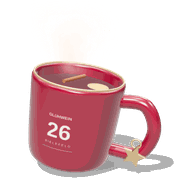
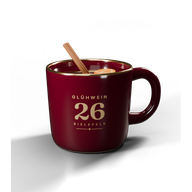
Klassik-Tasse in Blender vorgerendert, Zuckerstange ruhiger
Die Klassik-Tasse ist jetzt in Blender (Cycles) modelliert und als Drehung
mit 36 Bildern gerendert. Three.js zeichnet für sie nur noch den Dampf.
Zuckerstange: ruhigerer Wirbel, weniger Glitzer, keine Streifen auf jeder
Karte, keine Sticker-26, kleinere Radien. SW-Cache v10.

Claude-Session: https://claude.ai/code/session_01HZjAe5qzSWpL2sgn6uB89d

diff --git a/components/WinterCup.tsx b/components/WinterCup.tsx
@@ -25,10 +25,17 @@ const stripes = (a: string, b: string, n: number) => canvasTexture(256, 256, c =
 });
 /** Punkt auf der Tassenwand: Winkel a (0 = vorne), Höhe y, kleiner Abstand nach außen. */
 const onWall = (a: number, y: number, r = .8) => new THREE.Vector3(Math.sin(a) * r, y, Math.cos(a) * r);
+/** Tassen, die in Blender (Cycles) als Drehung vorgerendert sind: Anzahl Bilder pro Umdrehung unter /tassen3d/<variante>/NN.webp.
+ *  Three.js zeichnet für sie nur noch den Dampf; Kamera und Maßstab entsprechen der Blender-Szene. */
+const PRERENDERED: Partial<Record<CupVariant, number>> = { classic: 36 };
+/** etwas kleiner zeigen, damit Zimtstange und Henkel nicht in den Titel ragen (Bild und Dampf-Kamera gleich skaliert) */
+const PHOTO_SCALE = .88;
+const frameSrc = (variant: CupVariant, i: number) => asset(`/tassen3d/${variant}/${String(i).padStart(2, '0')}.webp`);
 
 export default function WinterCup({ variant = 'classic', light = false }: { variant?: CupVariant; light?: boolean }) {
-  const host = useRef<HTMLDivElement>(null), turn = useRef<(() => void) | null>(null);
+  const host = useRef<HTMLDivElement>(null), turn = useRef<(() => void) | null>(null), photo = useRef<HTMLImageElement>(null);
   const [available, setAvailable] = useState(false);
+  const frames = PRERENDERED[variant] ?? 0;
   useEffect(() => {
     if (!host.current) return;
     let renderer: THREE.WebGLRenderer; let raf = 0, disposed = false;
@@ -42,12 +49,17 @@ export default function WinterCup({ variant = 'classic', light = false }: { vari
     const envTex = pmrem.fromScene(new RoomEnvironment(), .04).texture;
     scene.environment = envTex;
     const camera = new THREE.PerspectiveCamera(32, 230 / 260, .1, 50); camera.position.set(0, 2.3, 7.6); camera.lookAt(0, .15, 0);
+    // Vorgerenderte Tasse: gleiche Kamera wie in Blender, damit der Dampf genau aus der Öffnung steigt
+    if (frames) { camera.fov = 26; camera.position.set(0, 2.1, 7.6); camera.lookAt(.12, .12, 0); camera.updateProjectionMatrix(); }
+    const unitsPerHeight = 2 * camera.position.length() * Math.tan(THREE.MathUtils.degToRad(camera.fov / 2));
+    // übrige Bilder der Drehung im Hintergrund laden, damit das Antippen sofort flüssig dreht
+    const preload = frames ? Array.from({ length: frames - 1 }, (_, i) => { const im = new Image(); im.decoding = 'async'; im.src = frameSrc(variant, i + 1); return im; }) : [];
     // Zeichenfläche immer in der echten Größe des Platzes: so wird die Tasse nie gestaucht oder gestreckt.
     const fit = () => {
       const w = Math.max(1, target.clientWidth), h = Math.max(1, target.clientHeight);
       renderer.setSize(w, h, false); camera.aspect = w / h;
       // Bei schmalem Platz etwas zurückzoomen, damit Henkel und Dampf ins Bild passen.
-      camera.zoom = Math.min(1, (w / h) / (230 / 260)); camera.updateProjectionMatrix();
+      camera.zoom = Math.min(1, (w / h) / (230 / 260)) * (frames ? PHOTO_SCALE : 1); camera.updateProjectionMatrix();
       renderer.render(scene, camera);
     };
     const sizeObserver = new ResizeObserver(fit);
@@ -280,15 +292,24 @@ export default function WinterCup({ variant = 'classic', light = false }: { vari
     steam[0].position.set(-.04, 1.4, -.05); steam[1].position.set(.18, 1.33, .05);
     steam.forEach(s => { s.lookAt(camera.position.clone().setY(s.position.y)); s.userData.y = s.position.y; s.renderOrder = 2; scene.add(s); });
     mug.traverse(o => { if ((o as THREE.Mesh).isMesh) { o.castShadow = true; o.receiveShadow = true; } });
+    if (frames) { mug.visible = false; steam[0].position.set(.02, 1.42, -.05); steam[1].position.set(.22, 1.35, .05); steam.forEach(s => { s.lookAt(camera.position.clone().setY(s.position.y)); s.userData.y = s.position.y; }); }
     // Weicher Kontaktschatten (unscharfer Fleck) plus echter Schattenwurf des Lichts auf einer unsichtbaren Fläche
     const contactTex = canvasTexture(128, 128, c => { const g = c.createRadialGradient(64, 64, 2, 64, 64, 62); g.addColorStop(0, 'rgba(20,8,14,.42)'); g.addColorStop(.5, 'rgba(20,8,14,.14)'); g.addColorStop(1, 'rgba(20,8,14,0)'); c.fillStyle = g; c.fillRect(0, 0, 128, 128); });
     const contact = new THREE.Mesh(new THREE.PlaneGeometry(2.4, 1.2), new THREE.MeshBasicMaterial({ map: contactTex, transparent: true, depthWrite: false }));
-    contact.rotation.x = -Math.PI / 2; contact.position.set(.12, -.9, 0); scene.add(contact);
+    contact.rotation.x = -Math.PI / 2; contact.position.set(.12, -.9, 0); if (!frames) scene.add(contact);
     const catcher = new THREE.Mesh(new THREE.PlaneGeometry(8, 8), new THREE.ShadowMaterial({ opacity: .28 }));
-    catcher.rotation.x = -Math.PI / 2; catcher.position.y = -.91; catcher.receiveShadow = true; scene.add(catcher);
+    catcher.rotation.x = -Math.PI / 2; catcher.position.y = -.91; catcher.receiveShadow = true; if (!frames) scene.add(catcher);
+    let shown = 0;
+    const showPhoto = () => {
+      const img = photo.current; if (!img) return;
+      // Drehung = Bildnummer, Schweben und Hüpfen = Verschiebung in Pixeln
+      const i = ((Math.round(spin / (Math.PI * 2) * frames) % frames) + frames) % frames;
+      if (i !== shown) { shown = i; img.src = frameSrc(variant, i); }
+      img.style.transform = `translateY(${(-mug.position.y / unitsPerHeight) * target.clientHeight * PHOTO_SCALE}px) scale(${PHOTO_SCALE})`;
+    };
 
     let spin = 0, last = 0, hop = 0;
-    turn.current = () => { spin += Math.PI * 2; hop = 1; if (reduced) { mug.rotation.y += .4; renderer.render(scene, camera); } else if (!raf) raf = requestAnimationFrame(frame); };
+    turn.current = () => { spin += Math.PI * 2; hop = 1; if (reduced) { if (frames) { spin = 0; return; } mug.rotation.y += .4; renderer.render(scene, camera); } else if (!raf) raf = requestAnimationFrame(frame); };
     const charmBase = charm?.rotation.z ?? 0;
     function frame(time = 0) {
       raf = 0; if (disposed) return;
@@ -298,6 +319,7 @@ export default function WinterCup({ variant = 'classic', light = false }: { vari
         hop *= Math.exp(-dt * 3); mug.position.y = Math.sin(t * .75) * .025 + Math.abs(Math.sin(t * 9)) * hop * .25;
         steam.forEach(s => { (s.material as THREE.ShaderMaterial).uniforms.uTime.value = t; s.position.y = s.userData.y + mug.position.y; });
         if (charm) charm.rotation.z = charmBase + Math.sin(t * .8) * .08;
+        if (frames) showPhoto();
       }
       renderer.render(scene, camera);
       if (!reduced && !document.hidden) raf = requestAnimationFrame(frame);
@@ -310,8 +332,10 @@ export default function WinterCup({ variant = 'classic', light = false }: { vari
     return () => {
       disposed = true; cancelAnimationFrame(raf); observer.disconnect(); sizeObserver.disconnect(); document.removeEventListener('visibilitychange', visibility); turn.current = null;
       scene.traverse(obj => { const m = obj as THREE.Mesh; m.geometry?.dispose(); if (m.material) (Array.isArray(m.material) ? m.material : [m.material]).forEach(mat => { (mat as THREE.MeshStandardMaterial).map?.dispose(); mat.dispose(); }); });
-      envTex.dispose(); pmrem.dispose(); renderer.dispose(); renderer.domElement.remove();
+      envTex.dispose(); pmrem.dispose(); renderer.dispose(); renderer.domElement.remove(); preload.length = 0;
     };
-  }, [variant, light]);
-  return <button type="button" className="winter-cup" aria-label="3D-Glühweintasse antippen" onClick={() => turn.current?.()}><div ref={host} />{!available && <img src={asset('/illustrations/tasse.svg')} alt="Glühweintasse" className="cup-fallback" />}</button>;
+  }, [variant, light, frames]);
+  return <button type="button" className="winter-cup" aria-label="3D-Glühweintasse antippen" onClick={() => turn.current?.()}>
+    {frames > 0 && <img ref={photo} src={frameSrc(variant, 0)} alt="" className="cup-photo" style={{ transform: `scale(${PHOTO_SCALE})` }} draggable={false} />}
+    <div ref={host} />{!available && !frames && <img src={asset('/illustrations/tasse.svg')} alt="Glühweintasse" className="cup-fallback" />}</button>;
 }

diff --git a/app/app.css b/app/app.css
@@ -77,6 +77,9 @@ h1, h2, .stats strong, .podium-score, .score-big > strong, .review-score, .rank-
 .winter-cup { position: absolute; inset: -10px 0 0 -46px; background: none; border: 0; padding: 0; touch-action: manipulation; }
 .winter-cup > div { width: 100%; height: 100%; }
 .winter-cup canvas { display: block; width: 100% !important; height: 100% !important; }
+/* vorgerenderte Tasse liegt unter der Dampf-Ebene, gleicher Ausschnitt wie die Blender-Kamera */
+.winter-cup .cup-photo { position: absolute; inset: 0; width: 100%; height: 100%; object-fit: contain; pointer-events: none; user-select: none; }
+.winter-cup > div { position: relative; }
 .cup-fallback { position: absolute; inset: 20px; border-radius: 28px; object-fit: cover; }
 
 /* Kennzahlen */
@@ -564,13 +567,12 @@ li.ok .guide-icon { background: rgba(var(--pine-rgb), .16); color: var(--pine); 
 [data-theme="mitternacht"] .stats strong { text-shadow: 0 0 18px rgba(var(--accent-rgb), .6); }
 [data-theme="mitternacht"] .dock button.active { box-shadow: 0 0 22px rgba(var(--accent-rgb), .55); }
 
-:root[data-theme="zuckerstange"] { --display: 'Fredoka Variable', system-ui, sans-serif; --radius: 30px; --radius-sm: 26px; --btn-radius: 99px; }
+:root[data-theme="zuckerstange"] { --display: 'Fredoka Variable', system-ui, sans-serif; --radius: 26px; --radius-sm: 20px; --btn-radius: 99px; }
 [data-theme="zuckerstange"] h1, [data-theme="zuckerstange"] h2 { font-weight: 600; letter-spacing: -.01em; }
-[data-theme="zuckerstange"] .hero h1 em { font-style: normal; color: #fff; text-shadow: 3px 3px 0 var(--amber); }
-[data-theme="zuckerstange"] .card, [data-theme="zuckerstange"] .stats { position: relative; overflow: hidden; }
-[data-theme="zuckerstange"] .card::before, [data-theme="zuckerstange"] .stats::before { content: ''; position: absolute; inset: 0 0 auto; height: 6px; background: repeating-linear-gradient(-45deg, var(--amber) 0 8px, #fff 8px 16px); opacity: .8; pointer-events: none; }
-[data-theme="zuckerstange"] .btn:active, [data-theme="zuckerstange"] .stand-card:active { transform: scale(.94); transition-timing-function: cubic-bezier(.3, 1.8, .5, 1); }
-[data-theme="zuckerstange"] .now-num, [data-theme="zuckerstange"] .map-selected .num { box-shadow: 0 0 0 3px #fff inset; }
+[data-theme="zuckerstange"] .hero h1 em { font-style: normal; color: var(--amber); text-shadow: none; }
+/* Einziges Zuckerstangen-Detail: ein feiner, gedämpfter Streifen oben auf der Fortschrittskarte */
+[data-theme="zuckerstange"] .stats { position: relative; overflow: hidden; }
+[data-theme="zuckerstange"] .stats::before { content: ''; position: absolute; inset: 0 0 auto; height: 3px; background: repeating-linear-gradient(-45deg, var(--amber) 0 6px, rgba(255, 255, 255, .85) 6px 12px); opacity: .4; pointer-events: none; }
 
 :root[data-theme="schnee"] { --display: 'Playfair Display Variable', Georgia, serif; --radius: 20px; --radius-sm: 18px; --btn-radius: 12px; }
 [data-theme="schnee"] h1, [data-theme="schnee"] h2 { font-weight: 600; letter-spacing: -.015em; }
@@ -690,7 +692,7 @@ li.ok .guide-icon { background: rgba(var(--pine-rgb), .16); color: var(--pine); 
 /* Radien: 3 Stufen + Pillen-Buttons. Designs mit eigener Persönlichkeit behalten ihre Form. */
 :root[data-ui] { --radius: 24px; --radius-sm: 16px; --btn-radius: 999px; }
 :root[data-ui][data-theme="tannenwald"] { --radius: 14px; --radius-sm: 10px; --btn-radius: 10px; }
-:root[data-ui][data-theme="zuckerstange"] { --radius: 30px; --radius-sm: 24px; }
+:root[data-ui][data-theme="zuckerstange"] { --radius: 26px; --radius-sm: 18px; }
 [data-ui] .icon-btn, [data-ui] .map-tools button { border-radius: 999px; }
 
 /* Typo-Skala: Text 16, Eingaben 16 (kein iPhone-Zoom), feste Stufen für Titel */

diff --git a/lib/themes.ts b/lib/themes.ts
@@ -39,9 +39,9 @@ export const themes: Theme[] = [
     scene: { bg: 'aurora', particles: 'stars', density: .6, particleAlpha: .9, additive: true, night: [.02, .03, .08], plum: [.06, .1, .24], glow: [.25, .95, .65], glow2: [.5, .45, 1], warm1: [.85, .9, 1], warm2: [1, .9, .75], glowStrength: 1 },
   },
   {
-    id: 'zuckerstange', cup: 'zucker', name: 'Zuckerstange', hint: 'Lolli-Wirbel & Glitzer',
-    vars: dark({ bg: '#19070a', bgRgb: '25, 7, 10', ink: '#fff0ee', inkRgb: '255, 240, 238', muted: '#e4c8ca', accent: '#ff7a7a', accentRgb: '255, 122, 122', accentInk: '#2a0306', berry: '#ffc06e', berryRgb: '255, 192, 110', pine: '#8fd6aa', pineRgb: '143, 214, 170', pineDeep: '#2f6a45', panelRgb: '36, 11, 15', panelSolid: '#2a0d11', sceneGlow: '#5a1218' }),
-    scene: { bg: 'candy', particles: 'sparkle', density: .35, particleAlpha: 1, additive: true, night: [.13, .025, .04], plum: [.33, .06, .09], glow: [1, .85, .8], glow2: [1, .85, .8], warm1: [1, 1, 1], warm2: [1, .85, .55], glowStrength: 1 },
+    id: 'zuckerstange', cup: 'zucker', name: 'Zuckerstange', hint: 'Pfefferminz & sanfte Streifen',
+    vars: dark({ bg: '#170b0e', bgRgb: '23, 11, 14', ink: '#fff0ee', inkRgb: '255, 240, 238', muted: '#e4c8ca', accent: '#f2737a', accentRgb: '242, 115, 122', accentInk: '#2a0306', berry: '#ffc06e', berryRgb: '255, 192, 110', pine: '#8fd6aa', pineRgb: '143, 214, 170', pineDeep: '#2f6a45', panelRgb: '33, 17, 21', panelSolid: '#241418', sceneGlow: '#3a171d' }),
+    scene: { bg: 'candy', particles: 'sparkle', density: .1, particleAlpha: .45, additive: true, night: [.09, .04, .05], plum: [.2, .07, .09], glow: [1, .85, .8], glow2: [1, .85, .8], warm1: [1, 1, 1], warm2: [1, .85, .55], glowStrength: 1 },
   },
   {
     id: 'schnee', cup: 'schneemann', name: 'Schneekugel', hint: 'Hell, Wolken & Flocken', light: true,

diff --git a/components/BackgroundScene.tsx b/components/BackgroundScene.tsx
@@ -53,13 +53,12 @@ void main(){
       float rays=.45+.55*n(vec2(x*16.+fi*11.,t*.35));
       col+=mix(uGlow,uGlow2,fi/2.)*curtain*rays*(.42-fi*.08)*uGlowStrength;
     }
-  } else if(uMode<3.5){ // Zuckerstange: langsam drehender Lolli-Wirbel
+  } else if(uMode<3.5){ // Zuckerstange: ruhiger, kaum sichtbarer Lolli-Wirbel (weiche Streifen, wenig Kontrast)
     vec2 p=(uv-vec2(1.05,1.15)-m*.06)*vec2(asp,1.);
     float r=length(p), a=atan(p.y,p.x);
-    float w=a/6.2831*4.+r*2.2-t*.07+.06*sin(r*5.-t*.6);
-    float s=smoothstep(.35,.65,.5+.5*sin(w*6.2831));
-    col=mix(uNight,uPlum,s*.75);
-    col+=uGlow*.07*pow(max(0.,sin(w*6.2831+.9)),12.)*uGlowStrength;
+    float w=a/6.2831*3.+r*1.6-t*.035+.04*sin(r*4.-t*.4);
+    float s=smoothstep(.15,.85,.5+.5*sin(w*6.2831));
+    col=mix(uNight,uPlum,s*.32+smoothstep(1.4,.0,r)*.25);
     col*=.85+.15*smoothstep(1.6,.2,length(uv-.5));
   } else if(uMode>4.5){ // Clean: ruhiger, kaum sichtbarer Verlauf ohne Bewegung
     col=mix(uPlum,uNight,smoothstep(0.,.7,uv.y));

diff --git a/public/sw.js b/public/sw.js
@@ -1,5 +1,5 @@
 // Offline-Cache für die Glühwein-Tour. Nur gleiche Herkunft, Karten-Kacheln bleiben außen vor.
-const CACHE = 'gluehwein26-v9';
+const CACHE = 'gluehwein26-v10';
 const TILES = 'gluehwein26-tiles';
 const BASE = new URL('./', self.location).pathname; // '/' oder '/<Repo-Name>/'
 const SHELL = [BASE, BASE + 'manifest.webmanifest', BASE + 'favicon-64.png', BASE + 'icon-192.png'];

diff --git a/tools/tassen3d/klassik.py b/tools/tassen3d/klassik.py
@@ -1,0 +1,150 @@
+import bpy, math, sys, os
+from mathutils import Vector
+args = sys.argv[sys.argv.index('--')+1:] if '--' in sys.argv else []
+OUT = args[0] if args else 'test.png'
+FRAMES = int(args[1]) if len(args)>1 else 1
+SAMPLES = int(args[2]) if len(args)>2 else 64
+RES = int(args[3]) if len(args)>3 else 460
+START = int(args[4]) if len(args)>4 else 0
+HERE = os.path.dirname(os.path.abspath(__file__))
+bpy.ops.wm.read_factory_settings(use_empty=True)
+sc = bpy.context.scene
+
+def mat(name): m = bpy.data.materials.new(name); m.use_nodes = True; return m
+def nodes(m): return m.node_tree.nodes, m.node_tree.links
+
+# ---------- Materialien ----------
+# Körper: tiefrote Glasur mit Klarlack, goldener Rand oben, unglasierter Fuß, Gold-Aufdruck
+body = mat('glaze'); N, L = nodes(body); N.clear()
+out = N.new('ShaderNodeOutputMaterial')
+glaze = N.new('ShaderNodeBsdfPrincipled')
+glaze.inputs['Base Color'].default_value = (0.11, 0.003, 0.016, 1)
+glaze.inputs['Roughness'].default_value = 0.16
+glaze.inputs['Coat Weight'].default_value = 1.0
+glaze.inputs['Coat Roughness'].default_value = 0.035
+glaze.inputs['Specular IOR Level'].default_value = 0.5
+gold = N.new('ShaderNodeBsdfPrincipled')
+gold.inputs['Base Color'].default_value = (0.92, 0.62, 0.28, 1)
+gold.inputs['Metallic'].default_value = 1.0
+gold.inputs['Roughness'].default_value = 0.17
+print_ = N.new('ShaderNodeBsdfPrincipled')
+print_.inputs['Base Color'].default_value = (0.86, 0.6, 0.3, 1)
+print_.inputs['Metallic'].default_value = 0.45
+print_.inputs['Roughness'].default_value = 0.32
+bisque = N.new('ShaderNodeBsdfPrincipled')
+bisque.inputs['Base Color'].default_value = (0.62, 0.50, 0.40, 1)
+bisque.inputs['Roughness'].default_value = 0.85
+tc = N.new('ShaderNodeTexCoord'); sep = N.new('ShaderNodeSeparateXYZ'); L.new(tc.outputs['Object'], sep.inputs[0])
+# Winkel um die Achse -> U, Höhe -> V (zylindrische Abbildung für den Aufdruck)
+negy = N.new('ShaderNodeMath'); negy.operation='MULTIPLY'; negy.inputs[1].default_value=-1; L.new(sep.outputs['Y'], negy.inputs[0])
+at = N.new('ShaderNodeMath'); at.operation = 'ARCTAN2'; L.new(sep.outputs['X'], at.inputs[0]); L.new(negy.outputs[0], at.inputs[1])
+u = N.new('ShaderNodeMapRange'); u.inputs['From Min'].default_value = -math.pi-math.radians(18); u.inputs['From Max'].default_value = math.pi-math.radians(18); L.new(at.outputs[0], u.inputs['Value'])
+v = N.new('ShaderNodeMapRange'); v.inputs['From Min'].default_value = -0.52; v.inputs['From Max'].default_value = 0.6; L.new(sep.outputs['Z'], v.inputs['Value'])
+comb = N.new('ShaderNodeCombineXYZ'); L.new(u.outputs[0], comb.inputs['X']); L.new(v.outputs[0], comb.inputs['Y'])
+img = N.new('ShaderNodeTexImage'); img.image = bpy.data.images.load(os.path.join(HERE, 'label.png')); img.image.colorspace_settings.name = 'Non-Color'; img.extension = 'CLIP'; img.interpolation = 'Cubic'
+L.new(comb.outputs[0], img.inputs['Vector'])
+# Aufdruck nur außen: Normale zeigt nach außen
+geo = N.new('ShaderNodeNewGeometry'); 
+dot = N.new('ShaderNodeVectorMath'); dot.operation = 'DOT_PRODUCT'; L.new(geo.outputs['Normal'], dot.inputs[0])
+radial = N.new('ShaderNodeCombineXYZ'); L.new(sep.outputs['X'], radial.inputs['X']); L.new(sep.outputs['Y'], radial.inputs['Y'])
+norm = N.new('ShaderNodeVectorTransform'); norm.vector_type='VECTOR'; norm.convert_from='OBJECT'; norm.convert_to='WORLD'; L.new(radial.outputs[0], norm.inputs[0])
+L.new(norm.outputs[0], dot.inputs[1])
+outside = N.new('ShaderNodeMath'); outside.operation = 'GREATER_THAN'; outside.inputs[1].default_value = 0.0; L.new(dot.outputs['Value'], outside.inputs[0])
+printf = N.new('ShaderNodeMath'); printf.operation = 'MULTIPLY'; L.new(img.outputs['Color'], printf.inputs[0]); L.new(outside.outputs[0], printf.inputs[1])
+m1 = N.new('ShaderNodeMixShader'); L.new(printf.outputs[0], m1.inputs[0]); L.new(glaze.outputs[0], m1.inputs[1]); L.new(print_.outputs[0], m1.inputs[2])
+# goldener Rand oben
+rim = N.new('ShaderNodeMapRange'); rim.inputs['From Min'].default_value = 0.668; rim.inputs['From Max'].default_value = 0.672; L.new(sep.outputs['Z'], rim.inputs['Value'])
+m2 = N.new('ShaderNodeMixShader'); L.new(rim.outputs[0], m2.inputs[0]); L.new(m1.outputs[0], m2.inputs[1]); L.new(gold.outputs[0], m2.inputs[2])
+foot = N.new('ShaderNodeMapRange'); foot.inputs['From Min'].default_value = -0.745; foot.inputs['From Max'].default_value = -0.74; L.new(sep.outputs['Z'], foot.inputs['Value'])
+m3 = N.new('ShaderNodeMixShader'); L.new(foot.outputs[0], m3.inputs[0]); L.new(bisque.outputs[0], m3.inputs[1]); L.new(m2.outputs[0], m3.inputs[2])
+L.new(m3.outputs[0], out.inputs['Surface'])
+# ganz leichte Unebenheit der Glasur (handgemacht)
+noise = N.new('ShaderNodeTexNoise'); noise.inputs['Scale'].default_value = 6; L.new(tc.outputs['Object'], noise.inputs['Vector'])
+bump = N.new('ShaderNodeBump'); bump.inputs['Strength'].default_value = 0.025; L.new(noise.outputs['Fac'], bump.inputs['Height'])
+for s in (glaze, gold): L.new(bump.outputs['Normal'], s.inputs['Normal'])
+
+def simple(name, color, rough=0.5, metal=0.0, coat=0.0):
+    m = mat(name); b = m.node_tree.nodes['Principled BSDF']
+    b.inputs['Base Color'].default_value = (*color, 1); b.inputs['Roughness'].default_value = rough; b.inputs['Metallic'].default_value = metal; b.inputs['Coat Weight'].default_value = coat
+    return m
+
+# ---------- Geometrie ----------
+root = bpy.data.objects.new('mug', None); sc.collection.objects.link(root)
+def link(o): sc.collection.objects.link(o); o.parent = root; return o
+
+prof = [(0,-.735),(.44,-.735),(.5,-.75),(.53,-.78),(.62,-.78),(.67,-.765),(.715,-.7),(.745,-.55),(.765,-.2),(.785,.2),(.8,.55),(.805,.64),
+        (.8,.69),(.785,.705),(.765,.703),(.75,.685),(.742,.6),(.73,.2),(.71,-.25),(.67,-.53),(.58,-.62),(.4,-.645),(0,-.65)]
+me = bpy.data.meshes.new('body'); me.from_pydata([(x,0,z) for x,z in prof], [(i,i+1) for i in range(len(prof)-1)], []); 
+bodyo = link(bpy.data.objects.new('body', me))
+scr = bodyo.modifiers.new('screw','SCREW'); scr.axis='Z'; scr.steps=128; scr.render_steps=128; scr.use_merge_vertices=True; scr.use_smooth_shade=True
+ss = bodyo.modifiers.new('sub','SUBSURF'); ss.levels=2; ss.render_levels=2
+bodyo.data.materials.append(body)
+
+# Henkel: gebogene Röhre mit ovalem Querschnitt
+cu = bpy.data.curves.new('handle','CURVE'); cu.dimensions='3D'; sp = cu.splines.new('BEZIER')
+pts = [(.7,.46),(1.22,.44),(1.4,.04),(1.2,-.36),(.72,-.42)]
+sp.bezier_points.add(len(pts)-1)
+for bp,(x,z) in zip(sp.bezier_points, pts): bp.co=(x,0,z); bp.handle_left_type=bp.handle_right_type='AUTO'
+cu.bevel_mode='ROUND'; cu.bevel_depth=.105; cu.bevel_resolution=8; cu.resolution_u=24; cu.use_fill_caps=True
+# dicker an den Ansätzen, schlanker im Bogen
+for bp,r in zip(sp.bezier_points,[1.25,.95,.9,.95,1.25]): bp.radius=r
+ho = link(bpy.data.objects.new('handle', cu)); ho.scale=(1,.78,1); ho.data.materials.append(body)
+
+# Getränk mit leichter Wölbung zum Rand (Meniskus)
+wine = mat('wine'); N2,L2 = nodes(wine); b = N2['Principled BSDF']
+b.inputs['Base Color'].default_value=(.06,.002,.008,1); b.inputs['Roughness'].default_value=.04; b.inputs['Coat Weight'].default_value=.6
+bpy.ops.mesh.primitive_circle_add(vertices=128, radius=.742, fill_type='TRIFAN', location=(0,0,.56))
+liq = bpy.context.object; liq.parent = root; liq.data.materials.append(wine)
+for vx in liq.data.vertices:
+    r = Vector((vx.co.x,vx.co.y)).length; vx.co.z += max(0,(r-.68))*.25
+for p in liq.data.polygons: p.use_smooth=True
+
+# Orangenscheibe
+om = mat('orange'); N3,L3 = nodes(om); b3 = N3['Principled BSDF']
+oi = N3.new('ShaderNodeTexImage'); oi.image = bpy.data.images.load(os.path.join(HERE,'orange.png')); L3.new(oi.outputs['Color'], b3.inputs['Base Color'])
+b3.inputs['Roughness'].default_value=.35; b3.inputs['Subsurface Weight'].default_value=.4; b3.inputs['Subsurface Radius'].default_value=(.1,.05,.02)
+bpy.ops.mesh.primitive_cylinder_add(vertices=64, radius=.2, depth=.03, location=(.26,-.12,.575), rotation=(math.radians(4),math.radians(-6),0))
+orn = bpy.context.object; orn.parent=root; orn.data.materials.append(om)
+# Zimtstange, an den Rand gelehnt
+cin = simple('cinnamon',(.28,.11,.04),.75)
+bpy.ops.mesh.primitive_cylinder_add(vertices=24, radius=.04, depth=.78, location=(-.2,.22,.78), rotation=(math.radians(-38),math.radians(-28),0))
+cs = bpy.context.object; cs.parent=root; cs.data.materials.append(cin); bpy.ops.object.shade_smooth()
+bpy.ops.mesh.primitive_cylinder_add(vertices=24, radius=.036, depth=.78, location=(-.15,.25,.79), rotation=(math.radians(-38),math.radians(-28),0))
+cs2 = bpy.context.object; cs2.parent=root; cs2.data.materials.append(cin); bpy.ops.object.shade_smooth()
+# Sternanis
+an = simple('anise',(.22,.09,.04),.6)
+for i in range(8):
+    a = i*math.pi/4
+    bpy.ops.mesh.primitive_uv_sphere_add(segments=16, ring_count=10, radius=.05, location=(-.12+math.cos(a)*.07, -.28+math.sin(a)*.07, .58))
+    s = bpy.context.object; s.scale=(1.6,.75,.55); s.rotation_euler=(0,0,a); s.parent=root; s.data.materials.append(an); bpy.ops.object.shade_smooth()
+
+root.rotation_euler = (0,0,math.radians(18))
+
+# ---------- Licht, Kamera, Boden ----------
+world = bpy.data.worlds.new('w'); sc.world = world; world.use_nodes=True
+bg = world.node_tree.nodes['Background']; bg.inputs['Color'].default_value=(.07,.062,.06,1); bg.inputs['Strength'].default_value=1
+def area(name, loc, size, energy, color=(1,1,1), sx=None):
+    l = bpy.data.lights.new(name,'AREA'); l.energy=energy; l.color=color; l.shape='RECTANGLE'; l.size=size; l.size_y=sx or size
+    o = bpy.data.objects.new(name,l); sc.collection.objects.link(o); o.location=loc
+    d = (Vector((0,0,0))-Vector(loc)).to_track_quat('-Z','Y'); o.rotation_euler=d.to_euler(); return o
+area('key', (-3.4,-2.4,2.6), .55, 420, (1,.94,.86), 3.4)
+area('soft', (-1.5,-4.5,3.5), 3.0, 60, (1,.96,.92))   # hohe Softbox links: langer Lichtstreifen auf der Glasur
+area('rim', (3.0,2.4,2.2), .8, 260, (1,.85,.78), 2.6)       # Kante rechts hinten
+area('fill', (2.4,-3.6,.4), 1.0, 30, (.9,.92,1))            # sanfte Aufhellung vorne
+area('top', (0,0,4.5), 2.0, 70)
+bpy.ops.mesh.primitive_plane_add(size=20, location=(0,0,-.78)); fl=bpy.context.object; fl.is_shadow_catcher=True; fl.data.materials.append(simple('floor',(.012,.012,.014),.6))
+cam = bpy.data.cameras.new('cam'); cam.sensor_fit='VERTICAL'; cam.angle=math.radians(26)
+co = bpy.data.objects.new('cam',cam); sc.collection.objects.link(co); sc.camera=co
+co.location=(0,-7.6,2.1); co.rotation_euler=(Vector((0.12,0,.12))-co.location).to_track_quat('-Z','Y').to_euler()
+
+sc.render.engine='CYCLES'; sc.cycles.samples=SAMPLES; sc.cycles.use_denoising=True
+sc.cycles.device='CPU'; sc.render.film_transparent=True
+sc.render.resolution_x=RES; sc.render.resolution_y=int(RES*260/230); sc.render.resolution_percentage=100
+sc.view_settings.view_transform='AgX'; sc.view_settings.look='AgX - Medium High Contrast'
+sc.render.image_settings.file_format='PNG'; sc.render.image_settings.color_mode='RGBA'
+sc.cycles.max_bounces=8; sc.cycles.glossy_bounces=4; sc.cycles.transparent_max_bounces=4
+for i in range(START, FRAMES):
+    root.rotation_euler.z = math.radians(18) + i*2*math.pi/FRAMES
+    sc.render.filepath = OUT if FRAMES==1 else OUT.replace('#', f'{i:02d}')
+    bpy.ops.render.render(write_still=True)
+print('done')

diff --git a/tools/tassen3d/aufdruck.py b/tools/tassen3d/aufdruck.py
@@ -1,0 +1,35 @@
+from PIL import Image, ImageDraw, ImageFont
+W,H=4096,1024  # volle 360°, Höhe = Wandbereich
+img=Image.new('L',(W,H),0); d=ImageDraw.Draw(img)
+cx=W//2
+def font(path,size,wght=None,opsz=None):
+    f=ImageFont.truetype(path,size)
+    try:
+        axes=f.get_variation_axes(); vals=[]
+        for a in axes:
+            n=a['name'] if isinstance(a['name'],str) else a['name'].decode()
+            vals.append({b'Weight':wght,'Weight':wght,'Optical size':opsz,b'Optical size':opsz}.get(n) or a['default'])
+        f.set_variation_by_axes(vals)
+    except Exception as e: print('axes',e)
+    return f
+def ctext(y,t,f,spacing=0):
+    if spacing:
+        widths=[d.textlength(ch,font=f) for ch in t]; total=sum(widths)+spacing*(len(t)-1); x=cx-total/2
+        for ch,w in zip(t,widths): d.text((x,y),ch,font=f,fill=255,anchor='ls'); x+=w+spacing
+    else: d.text((cx,y),t,font=f,fill=255,anchor='ms')
+ctext(300,'GLÜHWEIN',font('inter.ttf',64,wght=600),spacing=22)
+ctext(640,'26',font('fraunces.ttf',380,wght=600,opsz=144))
+ctext(740,'BIELEFELD',font('inter.ttf',46,wght=500),spacing=30)
+d.line((cx-200,800,cx-30,800),fill=255,width=5); d.line((cx+30,800,cx+200,800),fill=255,width=5)
+import math
+pts=[(cx+ (20 if i%2==0 else 8)*math.cos(-math.pi/2+i*math.pi/5), 800+(20 if i%2==0 else 8)*math.sin(-math.pi/2+i*math.pi/5)) for i in range(10)]
+d.polygon(pts,fill=255)
+img.save('label.png')
+# Orangenscheibe von oben
+S=512; o=Image.new('RGB',(S,S),(214,110,20)); od=ImageDraw.Draw(o)
+od.ellipse((8,8,S-8,S-8),fill=(232,138,32)); od.ellipse((26,26,S-26,S-26),fill=(250,226,170))
+for i in range(10):
+    a0=i*36+3; a1=(i+1)*36-3
+    od.pieslice((44,44,S-44,S-44),a0,a1,fill=(242,150,40))
+od.ellipse((S/2-18,S/2-18,S/2+18,S/2+18),fill=(250,226,170))
+o.save('orange.png'); print('ok')

diff --git a/tools/tassen3d/README.md b/tools/tassen3d/README.md
@@ -1,0 +1,13 @@
+# Vorgerenderte Tassen (Blender)
+
+Die Klassik-Tasse wird in Blender (Cycles) modelliert und als Drehung mit 36 Bildern gerendert.
+Die App zeigt die Bilder aus `public/tassen3d/<variante>/NN.webp`; Three.js zeichnet nur noch den Dampf.
+
+```sh
+python3 -m venv venv && venv/bin/pip install bpy fonttools brotli pillow numpy
+# Schriften als TTF neben die Skripte legen (fraunces.ttf, inter.ttf, aus @fontsource-variable)
+venv/bin/python aufdruck.py                       # label.png + orange.png
+venv/bin/python klassik.py -- "out/#.png" 36 64 560  # Ausgabe, Bilder, Samples, Breite
+```
+
+Danach die PNGs nach WebP wandeln; den Bodenschatten zum Bildrand hin ausblenden, sonst sieht man eine Kante.
